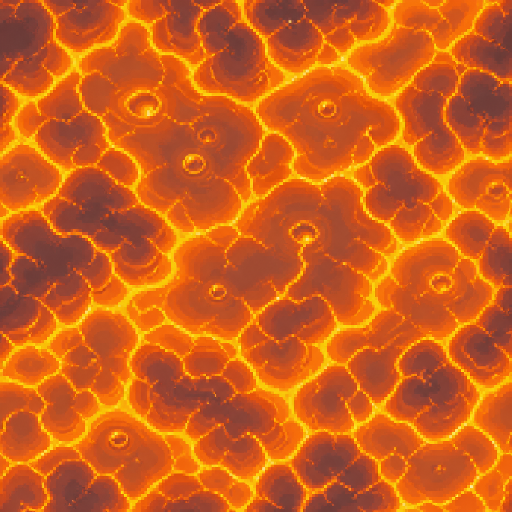
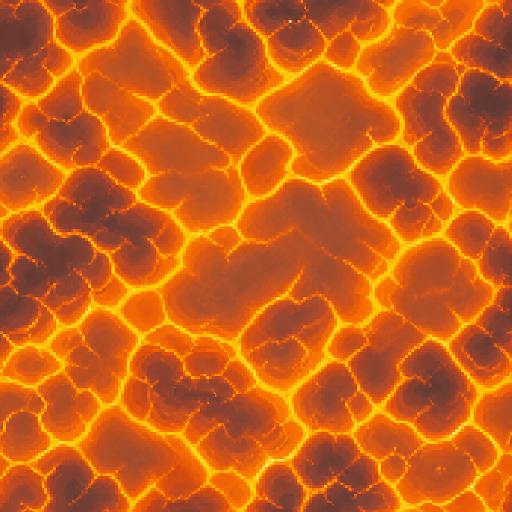
fix(renderer): remove lava rings and bubbles

diff --git a/packages/hd2d/src/terrain/liquid.ts b/packages/hd2d/src/terrain/liquid.ts
@@ -47,7 +47,6 @@ const DIRECTIONS = [
 
 const SURFACE_CLEARANCE = 0.012;
 const FALL_EPSILON = 0.04;
-const MAX_LAVA_BUBBLES = 160;
 
 function liquidLevel(field: HeightField, i: number, j: number): number | null {
   return field.liquidLevelAt?.(i, j) ?? null;
@@ -151,12 +150,6 @@ export function liquidFallPlacements(
 
 interface SurfaceGeometry {
   geometry: THREE.BufferGeometry;
-  lavaCells: readonly { x: number; z: number; y: number; hash: number }[];
-}
-
-function cellHash(i: number, j: number): number {
-  const value = Math.sin(i * 127.1 + j * 311.7) * 43758.5453;
-  return value - Math.floor(value);
 }
 
 function surfaceGeometry(
@@ -167,7 +160,6 @@ function surfaceGeometry(
   const positions: number[] = [];
   const uvs: number[] = [];
   const indices: number[] = [];
-  const lavaCells: { x: number; z: number; y: number; hash: number }[] = [];
   const halfX = field.cols / 2;
   const halfZ = field.rows / 2;
 
@@ -198,14 +190,6 @@ function surfaceGeometry(
       // Les UV sont mondiales : deux bandes adjacentes partagent le même courant sans couture.
       uvs.push(x0 / 3, z0 / 3, x1 / 3, z0 / 3, x1 / 3, z1 / 3, x0 / 3, z1 / 3);
       indices.push(base, base + 2, base + 1, base, base + 3, base + 2);
-      if (kind === "lava") {
-        for (let cell = start; cell < end; cell++) {
-          const hash = cellHash(cell, j);
-          if (hash > 0.72 && lavaCells.length < MAX_LAVA_BUBBLES) {
-            lavaCells.push({ x: cell + 0.5 - halfX, z: j + 0.5 - halfZ, y, hash });
-          }
-        }
-      }
       i++;
     }
   }
@@ -215,7 +199,7 @@ function surfaceGeometry(
   geometry.setAttribute("uv", new THREE.Float32BufferAttribute(uvs, 2));
   geometry.setIndex(indices);
   geometry.computeVertexNormals();
-  return { geometry, lavaCells };
+  return { geometry };
 }
 
 function cloneSurfaceTexture(source: THREE.Texture): THREE.Texture {
@@ -306,74 +290,7 @@ function createSurface(
   };
 }
 
-interface LavaBubbles {
-  points: THREE.Points | null;
-  update(dt: number): void;
-  dispose(): void;
-}
-
-function createLavaBubbles(
-  cells: readonly { x: number; z: number; y: number; hash: number }[],
-): LavaBubbles {
-  if (cells.length === 0) return { points: null, update() {}, dispose() {} };
-  const positions: number[] = [];
-  const phases: number[] = [];
-  const sizes: number[] = [];
-  for (const cell of cells) {
-    positions.push(cell.x, cell.y + SURFACE_CLEARANCE * 2, cell.z);
-    phases.push(cell.hash);
-    sizes.push(0.65 + cellHash(Math.round(cell.x * 17), Math.round(cell.z * 19)) * 0.55);
-  }
-  const geometry = new THREE.BufferGeometry();
-  geometry.setAttribute("position", new THREE.Float32BufferAttribute(positions, 3));
-  geometry.setAttribute("aPhase", new THREE.Float32BufferAttribute(phases, 1));
-  geometry.setAttribute("aSize", new THREE.Float32BufferAttribute(sizes, 1));
-  const material = new THREE.ShaderMaterial({
-    uniforms: { uTime: { value: 0 } },
-    vertexShader: /* glsl */ `
-      attribute float aPhase;
-      attribute float aSize;
-      uniform float uTime;
-      varying float vLife;
-      void main() {
-        vLife = fract(uTime * 0.13 + aPhase);
-        vec4 mvPosition = modelViewMatrix * vec4(position, 1.0);
-        gl_PointSize = (5.0 + 18.0 * vLife) * aSize * (32.0 / max(12.0, -mvPosition.z));
-        gl_Position = projectionMatrix * mvPosition;
-      }
-    `,
-    fragmentShader: /* glsl */ `
-      varying float vLife;
-      void main() {
-        vec2 centred = gl_PointCoord - vec2(0.5);
-        float radius = length(centred);
-        float ring = smoothstep(0.1, 0.0, abs(radius - (0.13 + vLife * 0.3)));
-        float alpha = ring * (1.0 - smoothstep(0.72, 1.0, vLife));
-        if (alpha < 0.02) discard;
-        vec3 colour = mix(vec3(1.0, 0.35, 0.03), vec3(1.0, 0.86, 0.28), vLife);
-        gl_FragColor = vec4(colour, alpha * 0.82);
-      }
-    `,
-    transparent: true,
-    depthWrite: false,
-    blending: THREE.AdditiveBlending,
-  });
-  const points = new THREE.Points(geometry, material);
-  points.renderOrder = 3;
-  return {
-    points,
-    update(dt) {
-      const time = material.uniforms.uTime;
-      if (time) time.value = ((time.value as number) + dt) % 4096;
-    },
-    dispose() {
-      geometry.dispose();
-      material.dispose();
-    },
-  };
-}
-
-/** Construit toutes les surfaces liquides élevées, leurs chutes et les remous de lave. */
+/** Construit toutes les surfaces liquides élevées, leurs chutes et leurs courants animés. */
 export function createLiquidTerrain(
   ctx: Hd2dContext,
   field: HeightField,
@@ -382,7 +299,6 @@ export function createLiquidTerrain(
   const group = new THREE.Group();
   const surfaces: LiquidSurface[] = [];
   const picked: THREE.Mesh[] = [];
-  let lavaBubbleCells: { x: number; z: number; y: number; hash: number }[] = [];
 
   for (const kind of ["water", "lava"] as const) {
     const built = surfaceGeometry(field, kind, opts.levelHeight);
@@ -399,11 +315,7 @@ export function createLiquidTerrain(
     picked.push(surface.mesh);
     group.add(surface.mesh);
     if (surface.overlay) group.add(surface.overlay);
-    if (kind === "lava") lavaBubbleCells = [...built.lavaCells];
   }
-
-  const bubbles = createLavaBubbles(lavaBubbleCells);
-  if (bubbles.points) group.add(bubbles.points);
 
   const falls: Waterfall[] = liquidFallPlacements(field, opts.levelHeight, opts.waterLevel).map(
     (placement) =>
@@ -421,12 +333,10 @@ export function createLiquidTerrain(
     update(dt) {
       for (const surface of surfaces) surface.update(dt);
       for (const fall of falls) fall.update(dt);
-      bubbles.update(dt);
     },
     dispose() {
       for (const surface of surfaces) surface.dispose();
       for (const fall of falls) fall.dispose();
-      bubbles.dispose();
       group.clear();
     },
   };

diff --git a/packages/hd2d/test/liquid.test.ts b/packages/hd2d/test/liquid.test.ts
@@ -60,7 +60,7 @@ describe("liquidFallPlacements", () => {
 });
 
 describe("createLiquidTerrain", () => {
-  it("builds pickable surfaces, lava bubbles and derived falls", () => {
+  it("builds pickable surfaces and derived falls without lava rings", () => {
     const field = heightFieldFromGrid({
       size: 3,
       levels: [0, 0, 0, 0, null, null, 0, null, null],
@@ -86,6 +86,7 @@ describe("createLiquidTerrain", () => {
         .sort((a, b) => a.localeCompare(b)),
     ).toEqual(["lava", "water"]);
     expect(liquids.group.children.length).toBeGreaterThan(liquids.surfaces.length);
+    expect(liquids.group.children.some((child) => child instanceof THREE.Points)).toBe(false);
     expect(() => liquids.update(1 / 60)).not.toThrow();
 
     liquids.dispose();

diff --git a/packages/client/public/assets/lindocara/README.md b/packages/client/public/assets/lindocara/README.md
@@ -45,8 +45,9 @@ editor and gameplay appearance cannot drift.
 
 `hd2d/lava-surface.png` was generated in-house with OpenAI image generation from the existing
 `hd2d/tileset-lave.png` as the visual reference, then reduced with nearest-neighbour filtering. It
-is a seamless molten-current layer used by the animated lava lake and lavafall renderer; no
-third-party source art is embedded in it.
+is a seamless molten-current layer used by the animated lava lake and lavafall renderer. A second
+in-house edit removed every circular ring and bubble while preserving its irregular glowing flows;
+no third-party source art is embedded in it.
 
 Ambient music lives under `audio/`:
 
